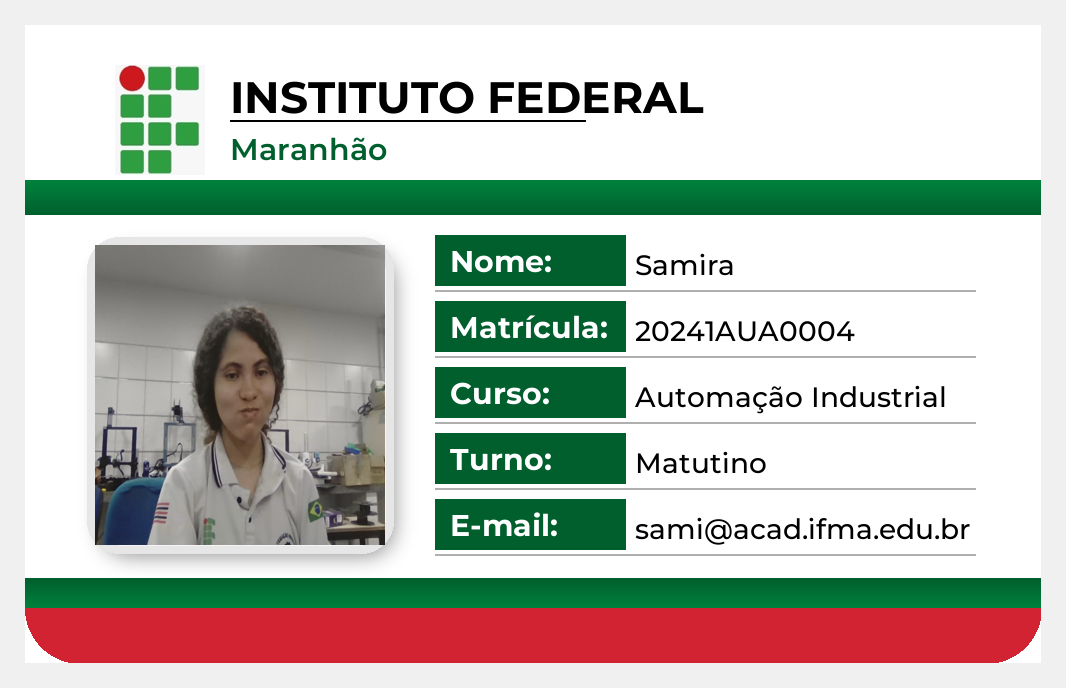
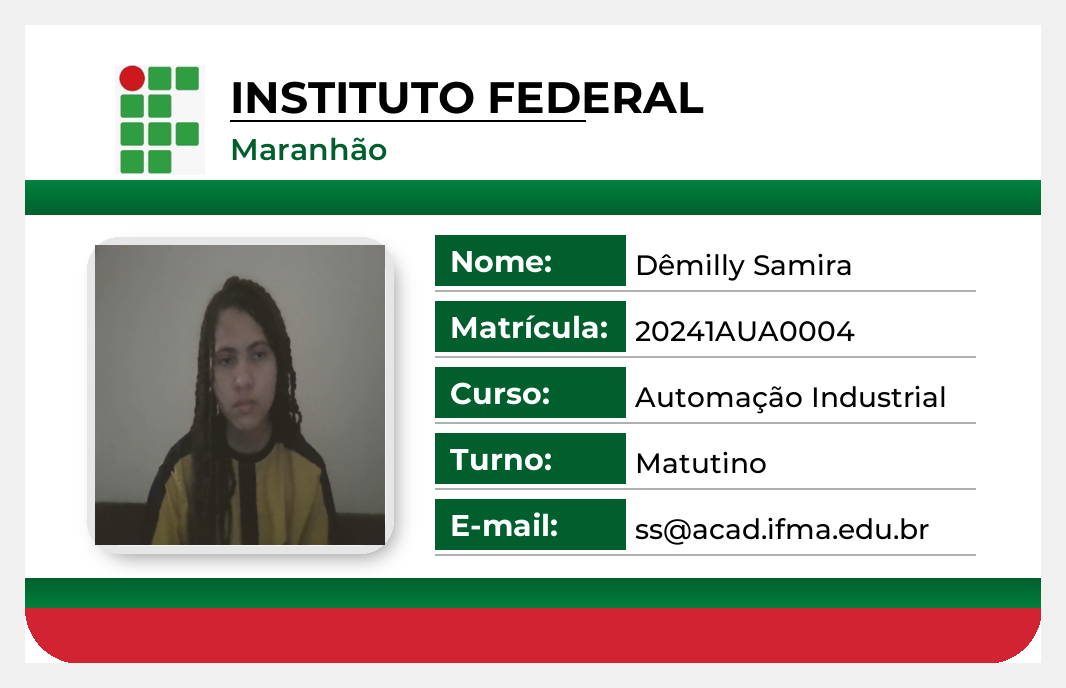
Nova carteirinha 20241AUA0004

Changed region(s): [[0.0619, 0.3968, 0.3715, 0.7936], [0.6191, 0.7326, 0.9287, 0.7936], [0.5882, 0.3663, 0.8049, 0.3968]]

diff --git a/index.html b/index.html
@@ -21,7 +21,6 @@
 
 
 <p><a href="alunos/TESTE0001.html">Carteirinha - TESTE0001</a></p>
-<p><a href="alunos/20241AUA0004.html">Carteirinha - 20241AUA0004</a></p>
 <<<<<<< HEAD
 <p><a href="alunos/mm.html">mm</a></p><p><a href="alunos/ee.html">Carteirinha - ee</a></p>
 <p><a href="alunos/tt.html">Carteirinha - tt</a></p>

diff --git a/alunos/delet_presenças.py b/alunos/delet_presenças.py
@@ -1,0 +1,14 @@
+import sqlite3
+
+conn = sqlite3.connect("presencas.db")
+cursor = conn.cursor()
+
+cursor.execute("DELETE FROM presencas")
+
+conn.commit()
+
+print("Presenças apagadas!")
+
+conn.close()
+
+exit()
